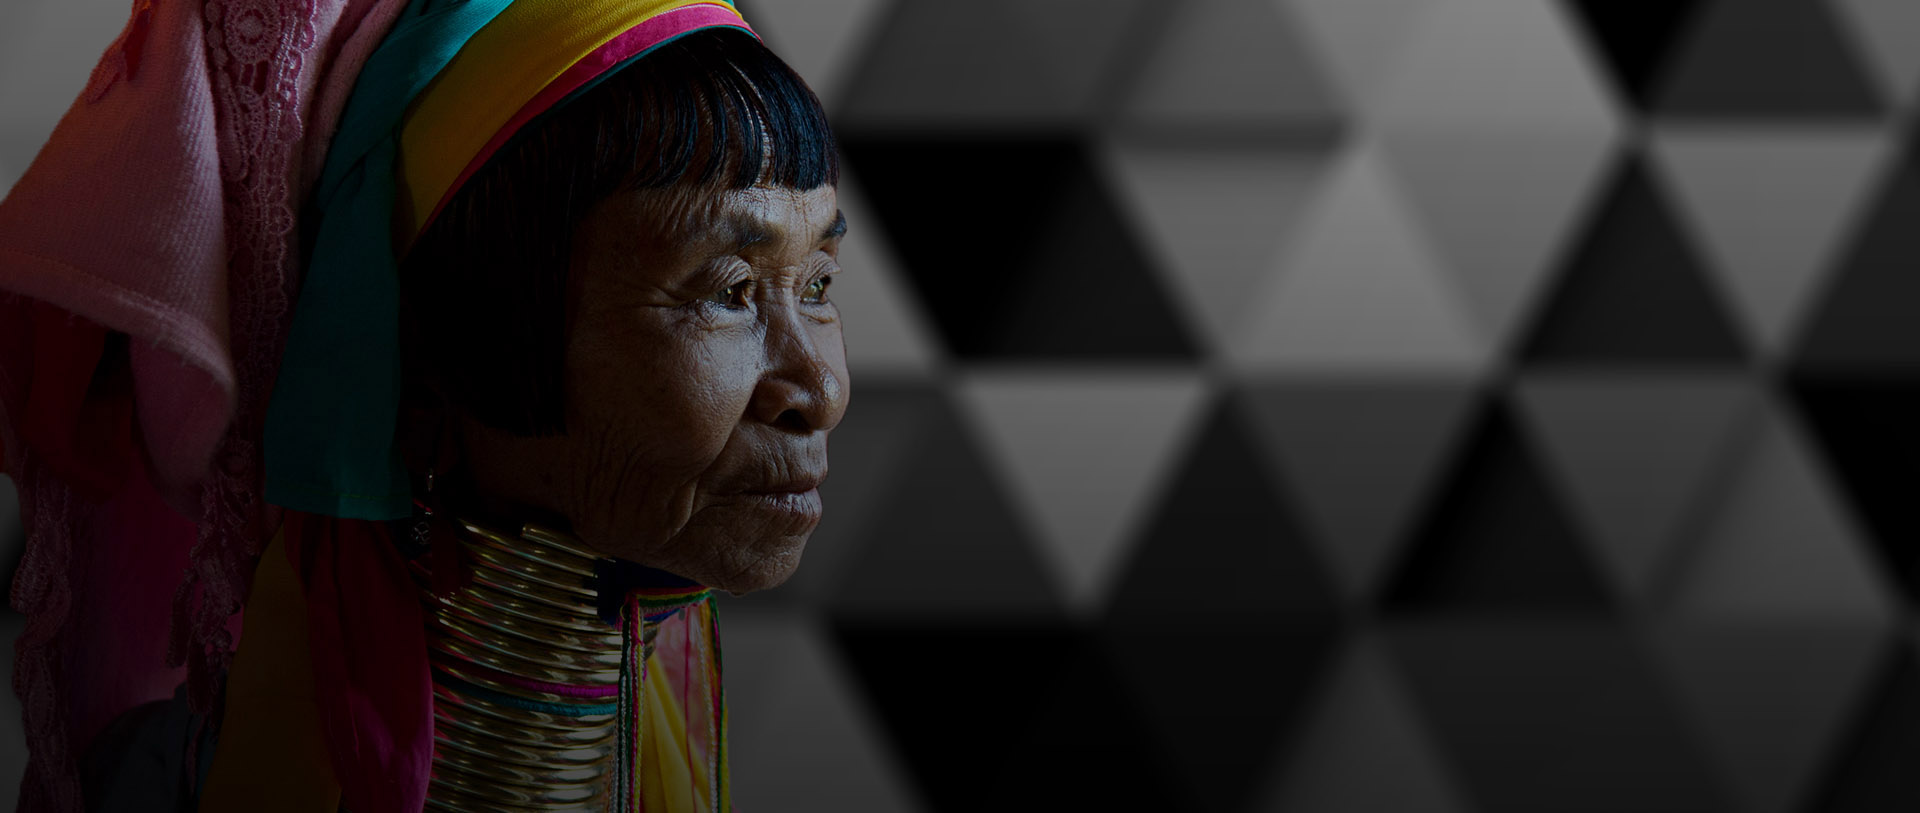
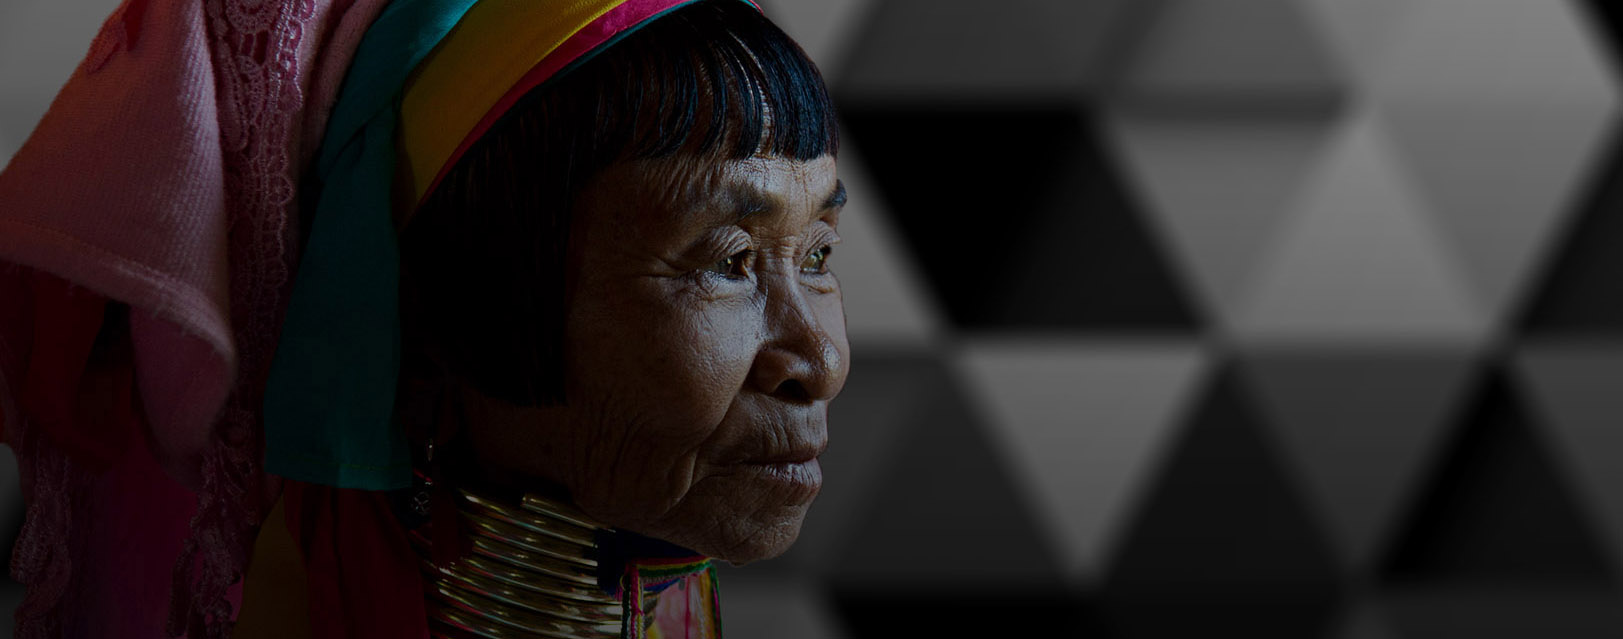
home, add small-size, full-size, others-img, some css

diff --git a/Project 1/www/src/home.html b/Project 1/www/src/home.html
@@ -53,14 +53,27 @@
     </div>
 
     <!--home Content Here-->
-
     <div class="card" style="margin-top: 0%; margin-bottom: 0%;">
-            <div class="card-image" id="home-bg">
-                <img src="../img/background.jpg">
-                <div class="centered white-text">
+
+            <!--page for mid-full size -->
+            <div class="card-image hide-on-small-only" id="home-bg">
+                <img src="../img/background1.jpg">
+                <div class="centered white-text ">
                     <h1>กะยัน กะจ้าง</h1>
                     <p>เป็นคำที่ชาวกะเหรี่ยงใช้เรียกตนเองแทนคำว่า ปาดอง <br>
                         สันนิษฐานว่ามาจากคำว่า “ป้ายทอง” ที่เกิดจากการพันคอด้วยทอง
+                        <a href="nameorigin.html">อ่านต่อ</a>
+                    </p>
+                </div>
+            </div>
+
+            <!--page for small size -->
+            <div class="card-image hide-on-med-and-up" id="home-bg">
+                <img src="../img/background2.jpg">
+                <div class="centered_home-small white-text ">
+                    <h1>กะยัน<br>กะจ้าง</h1>
+                    <p>เป็นคำที่ชาวกะเหรี่ยงใช้เรียกตนเองแทนคำว่า ปาดอง <br>
+                        สันนิษฐานว่ามาจากคำว่า “ป้ายทอง” ที่เกิดจากการพันคอด้วยทอง<br>
                         <a href="nameorigin.html">อ่านต่อ</a>
                     </p>
                 </div>
@@ -87,3 +100,5 @@
 </body>
 
 </html>
+
+

diff --git a/Project 1/www/css/main.css b/Project 1/www/css/main.css
@@ -16,7 +16,7 @@
     
 } 
 .dropdown-content {
-    background-color: #000000;
+    background-color: #212121;
 }
 
 .dropdown-content li a {
@@ -44,7 +44,7 @@ html,body{
     
     margin: 0;
     padding: 0;
-    background-color: black;
+    background-color: #212121;
 }
 
 .row {
@@ -65,3 +65,24 @@ ul.slides {
     padding-top: 50%;
     padding-bottom: 50%;
 }
+
+
+.centered_home-small {
+    position: absolute;
+    top: 50%;
+    left: 50%;
+    transform: translate(-50%, -50%);
+    z-index: 9999;
+}
+
+.center_heading {
+    position: absolute;
+    top: 50%;
+    left: 40%;
+    transform: translate(-50%, -50%);
+    z-index: 9999;
+}
+
+#profile-img img{
+    border-radius: 50%;
+}      
